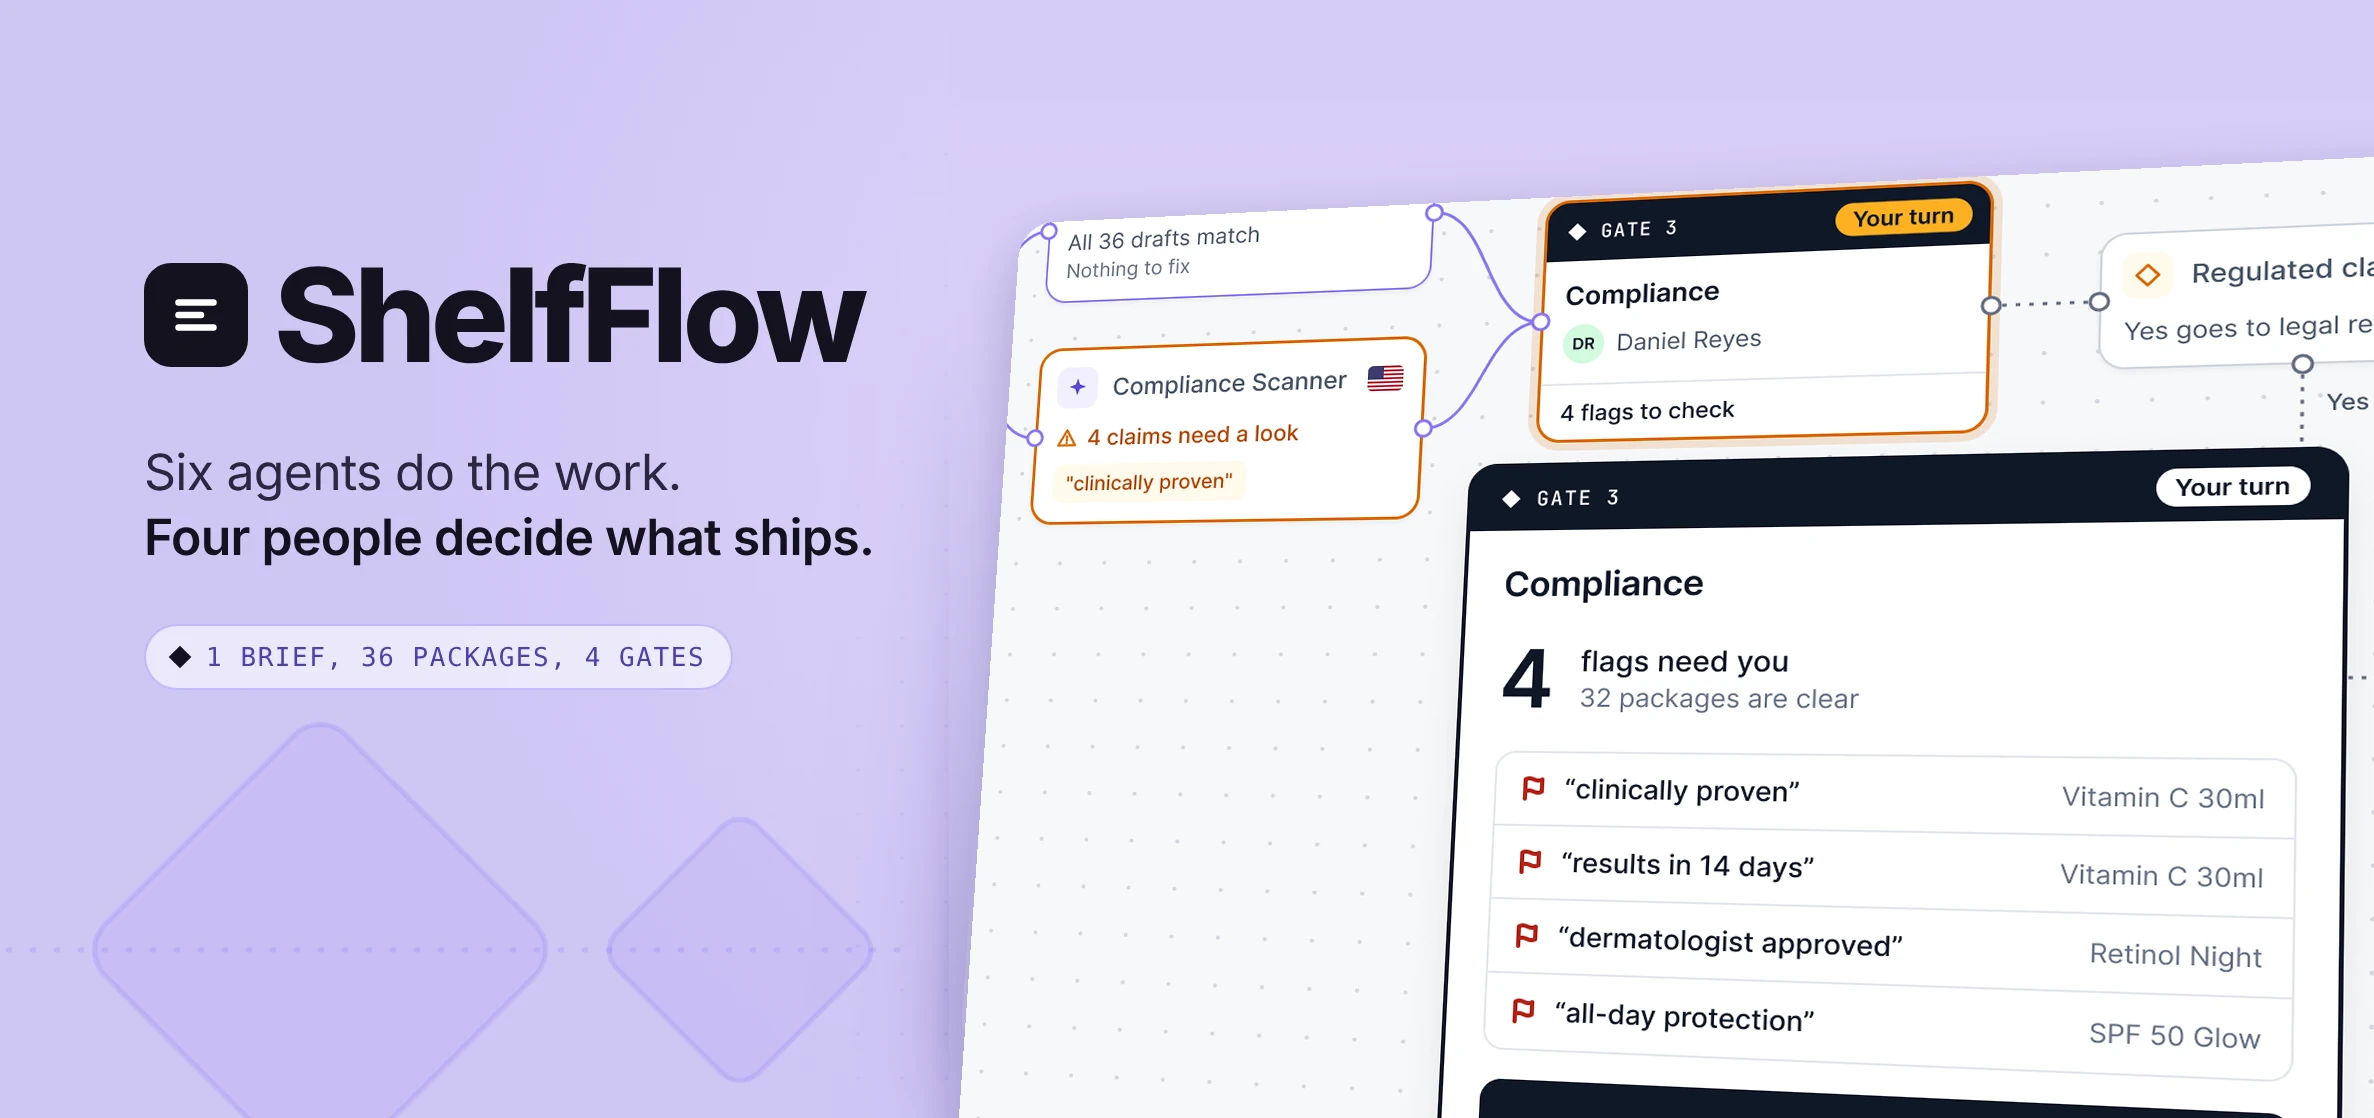
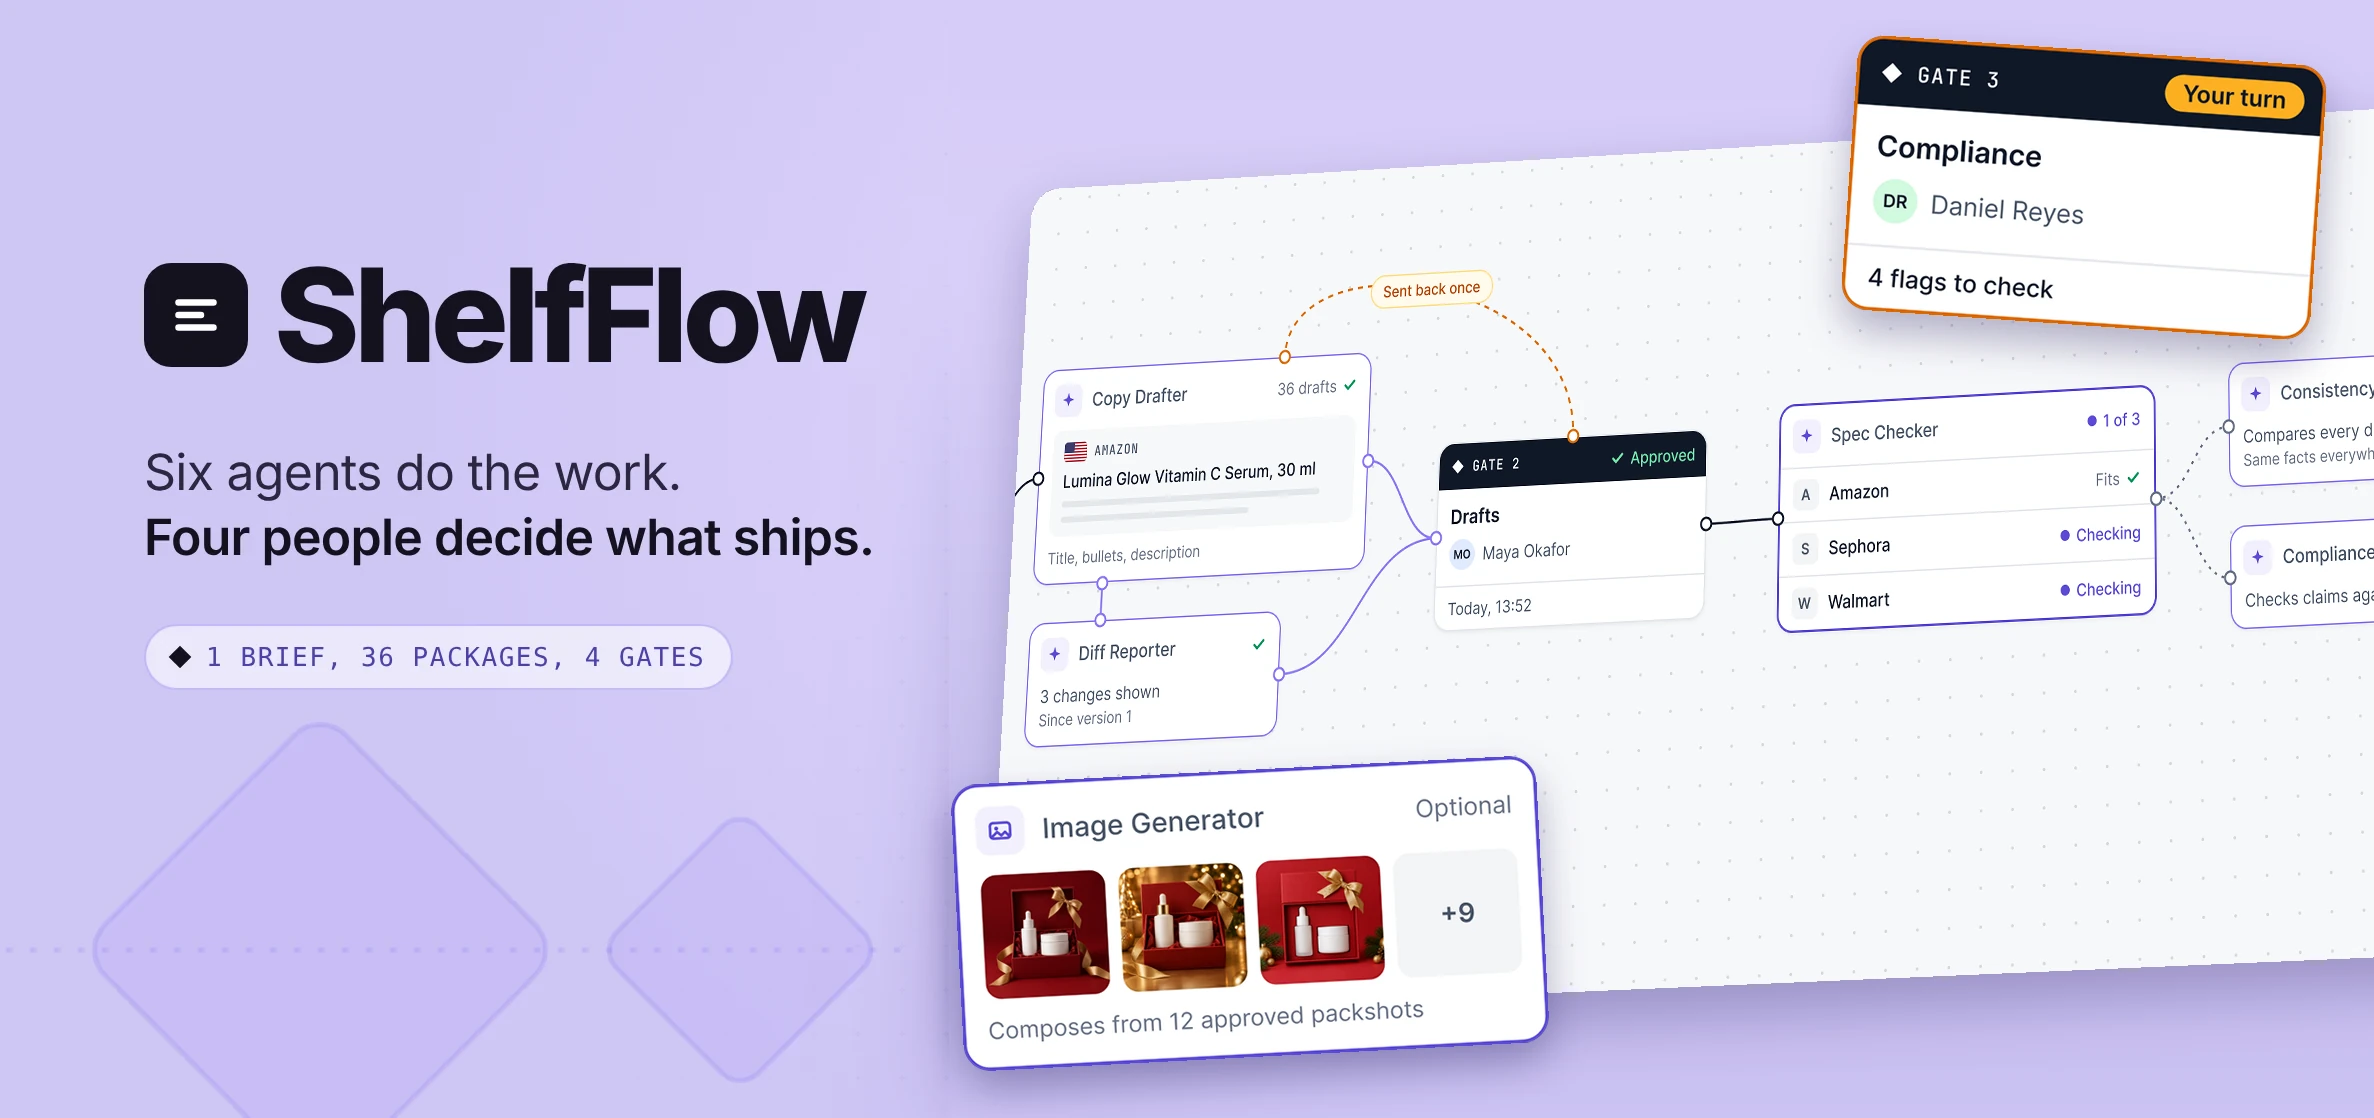
ShelfFlow: cover card and share image show more of the canvas
Wider view of the middle of the flow, with two nodes floating in front
for depth.

Claude-Session: https://claude.ai/code/session_01HvDhLV3ZoERkt8nS9QeULq

diff --git a/index.html b/index.html
@@ -936,7 +936,7 @@ window.addEventListener('DOMContentLoaded',function(){
 
 <div class="layer layer--raised"><div class="mx"><div class="sh"><span>// work</span></div>
 <div class="cards">
-<a href="work/shelfflow.html" class="cd cd--f cd--5"><div class="cd__img"><img src="img/shelfflow/flagship-card.webp?v=1125a" width="2374" height="1118" decoding="async" alt="ShelfFlow: six agents do the work, four people decide what ships" style="width:100%;height:100%;object-fit:cover;object-position:center;position:absolute;inset:0"></div><div class="cd__body"><div class="cd__type"><span class="cd__tag cd__tag--who">Enterprise CPG / NDA</span><span class="cd__tag cd__tag--what">Agentic Pipeline</span><span class="cd__tag cd__tag--result">1 Brief &#8594; 36 Packages</span><span class="cd__tag cd__tag--live">Interactive Demo</span></div><h3 class="cd__name">ShelfFlow</h3><p class="cd__desc">The supervision interface for an agentic content pipeline: six AI agents generate and adapt, four human gates decide what ships across retailers.</p><div class="cd__foot"><span class="cd__yr">View case study</span><span class="cd__go">&#8594;</span></div></div></a>
+<a href="work/shelfflow.html" class="cd cd--f cd--5"><div class="cd__img"><img src="img/shelfflow/flagship-card.webp?v=1125b" width="2374" height="1118" decoding="async" alt="ShelfFlow: six agents do the work, four people decide what ships" style="width:100%;height:100%;object-fit:cover;object-position:center;position:absolute;inset:0"></div><div class="cd__body"><div class="cd__type"><span class="cd__tag cd__tag--who">Enterprise CPG / NDA</span><span class="cd__tag cd__tag--what">Agentic Pipeline</span><span class="cd__tag cd__tag--result">1 Brief &#8594; 36 Packages</span><span class="cd__tag cd__tag--live">Interactive Demo</span></div><h3 class="cd__name">ShelfFlow</h3><p class="cd__desc">The supervision interface for an agentic content pipeline: six AI agents generate and adapt, four human gates decide what ships across retailers.</p><div class="cd__foot"><span class="cd__yr">View case study</span><span class="cd__go">&#8594;</span></div></div></a>
 <a href="work/acervo.html" class="cd cd--f cd--1"><div class="cd__img"><img src="img/acervo-card.webp" width="2374" height="1118" decoding="async" alt="Acervo private automotive collections" style="width:100%;height:100%;object-fit:cover;object-position:center;position:absolute;inset:0"></div><div class="cd__body"><div class="cd__type"><span class="cd__tag cd__tag--who">Acervo / Private client, Mexico</span><span class="cd__tag cd__tag--what">AI Build / Agent Team</span><span class="cd__tag cd__tag--result">17 Days to Production</span><span class="cd__tag cd__tag--live">Live at app.acervogroup.com</span></div><h3 class="cd__name">Acervo</h3><p class="cd__desc">A private platform for a serious car collection, built for a private collector in Mexico. Scoped, designed and shipped solo with eight AI agents under two human gates.</p><div class="cd__foot"><span class="cd__yr">View case study</span><span class="cd__go">&#8594;</span></div></div></a>
 <a href="work/checkout.html" class="cd cd--3"><div class="cd__img"><img src="img/gyg-card.webp?v=1118w" width="1920" height="1200" decoding="async" loading="lazy" alt="GetYourGuide checkout redesign: the funnel leaked between steps, +11% conversion" style="width:100%;height:100%;object-fit:cover;position:absolute;inset:0"></div><div class="cd__body"><div class="cd__type"><span class="cd__tag cd__tag--who">GetYourGuide</span><span class="cd__tag cd__tag--what">CRO / 10 A/B Tests</span><span class="cd__tag cd__tag--result">+11% Conversion</span><span class="cd__tag cd__tag--live">Live in Production</span></div><h3 class="cd__name">Checkout Funnel Redesign</h3><p class="cd__desc">The team was optimizing the wrong step. 38% of converters left checkout and came back to nothing. Ten experiments on the gap nobody measured.</p><div class="cd__foot"><span class="cd__yr">View case study</span><span class="cd__go">&#8594;</span></div></div></a>
 <div class="cards__side">

diff --git a/work/shelfflow.html b/work/shelfflow.html
@@ -10,7 +10,7 @@
 <meta name="description" content="The supervision interface for an agentic content pipeline. Six AI agents, four human gates, 36 retailer-ready packages per brief. A case study by Inigo Angulo.">
 <meta property="og:title" content="ShelfFlow / Inigo Angulo">
 <meta property="og:description" content="The supervision interface for an agentic content pipeline. Six AI agents, four human gates, 36 retailer-ready packages per brief.">
-<meta property="og:image" content="https://inigoangulo.com/img/shelfflow/og.png?v=1125a">
+<meta property="og:image" content="https://inigoangulo.com/img/shelfflow/og.png?v=1125b">
 <meta property="og:image:width" content="1200">
 <meta property="og:image:height" content="630">
 <meta property="og:type" content="article">
@@ -18,7 +18,7 @@
 <meta name="twitter:card" content="summary_large_image">
 <meta name="twitter:title" content="ShelfFlow / Inigo Angulo">
 <meta name="twitter:description" content="The supervision interface for an agentic content pipeline. Six AI agents, four human gates, 36 retailer-ready packages per brief.">
-<meta name="twitter:image" content="https://inigoangulo.com/img/shelfflow/og.png?v=1125a">
+<meta name="twitter:image" content="https://inigoangulo.com/img/shelfflow/og.png?v=1125b">
 <link rel="preconnect" href="https://fonts.googleapis.com">
 <link rel="preconnect" href="https://fonts.gstatic.com" crossorigin>
 <link href="https://fonts.googleapis.com/css2?family=JetBrains+Mono:wght@300;400;500;600;700&family=IBM+Plex+Sans:wght@400;500;600;700&display=swap" rel="stylesheet">
